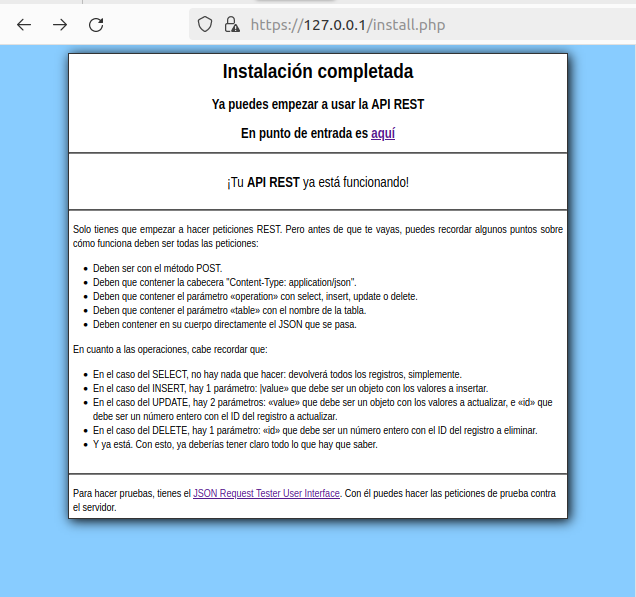
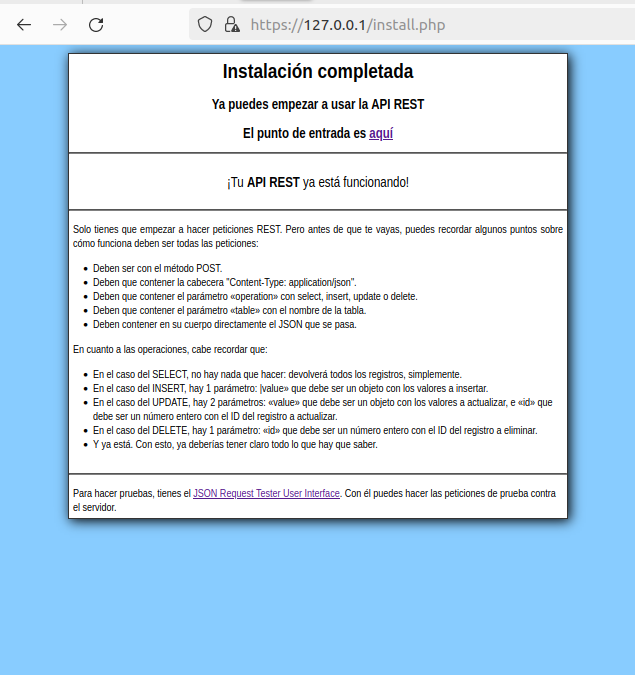
corregida imagen

Changed region(s): [[0.0, 0.0302, 1.0, 1.0]]

diff --git a/install.php b/install.php
@@ -70,7 +70,7 @@ file_put_contents("installed.txt","Yes");
             <div style="padding: 4px;text-align: center;">
                 <h2>Instalación completada</h2>
                 <h4 style="padding: 12px;">Ya puedes empezar a usar la API REST</h4>
-                <h4>En punto de entrada es <a href="./index.php">aquí</a></h4>
+                <h4>El punto de entrada es <a href="./index.php">aquí</a></h4>
             </div>
             <hr />
             <div style="padding:12px; text-align: center;">¡Tu <b>API REST</b> ya está funcionando!</div>
